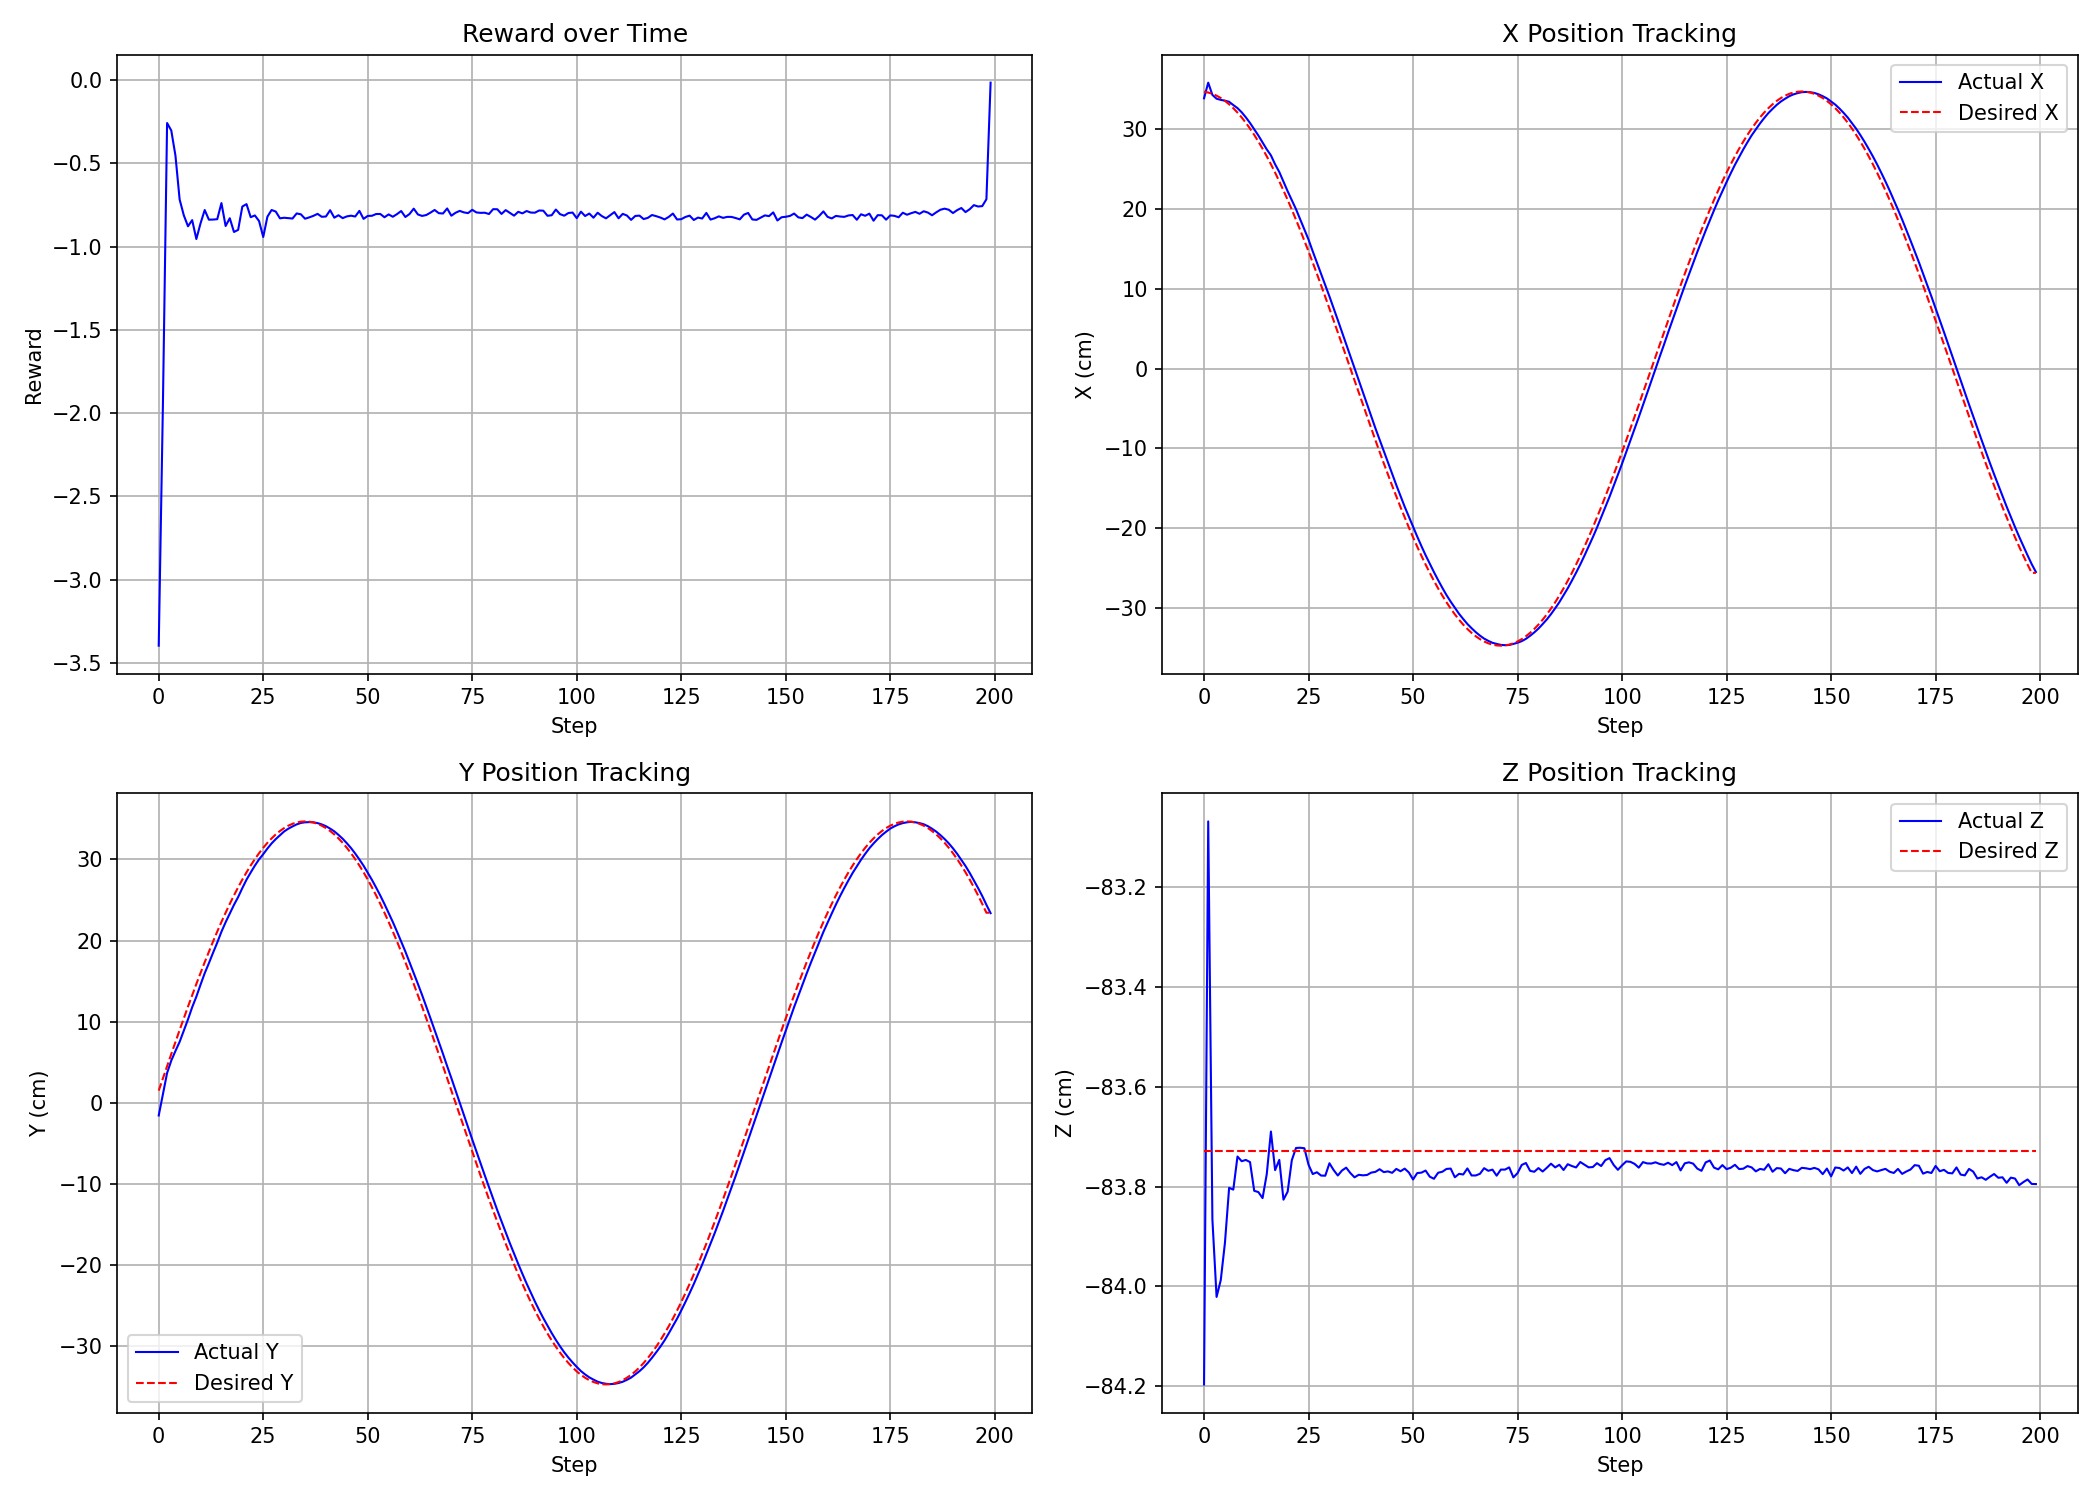
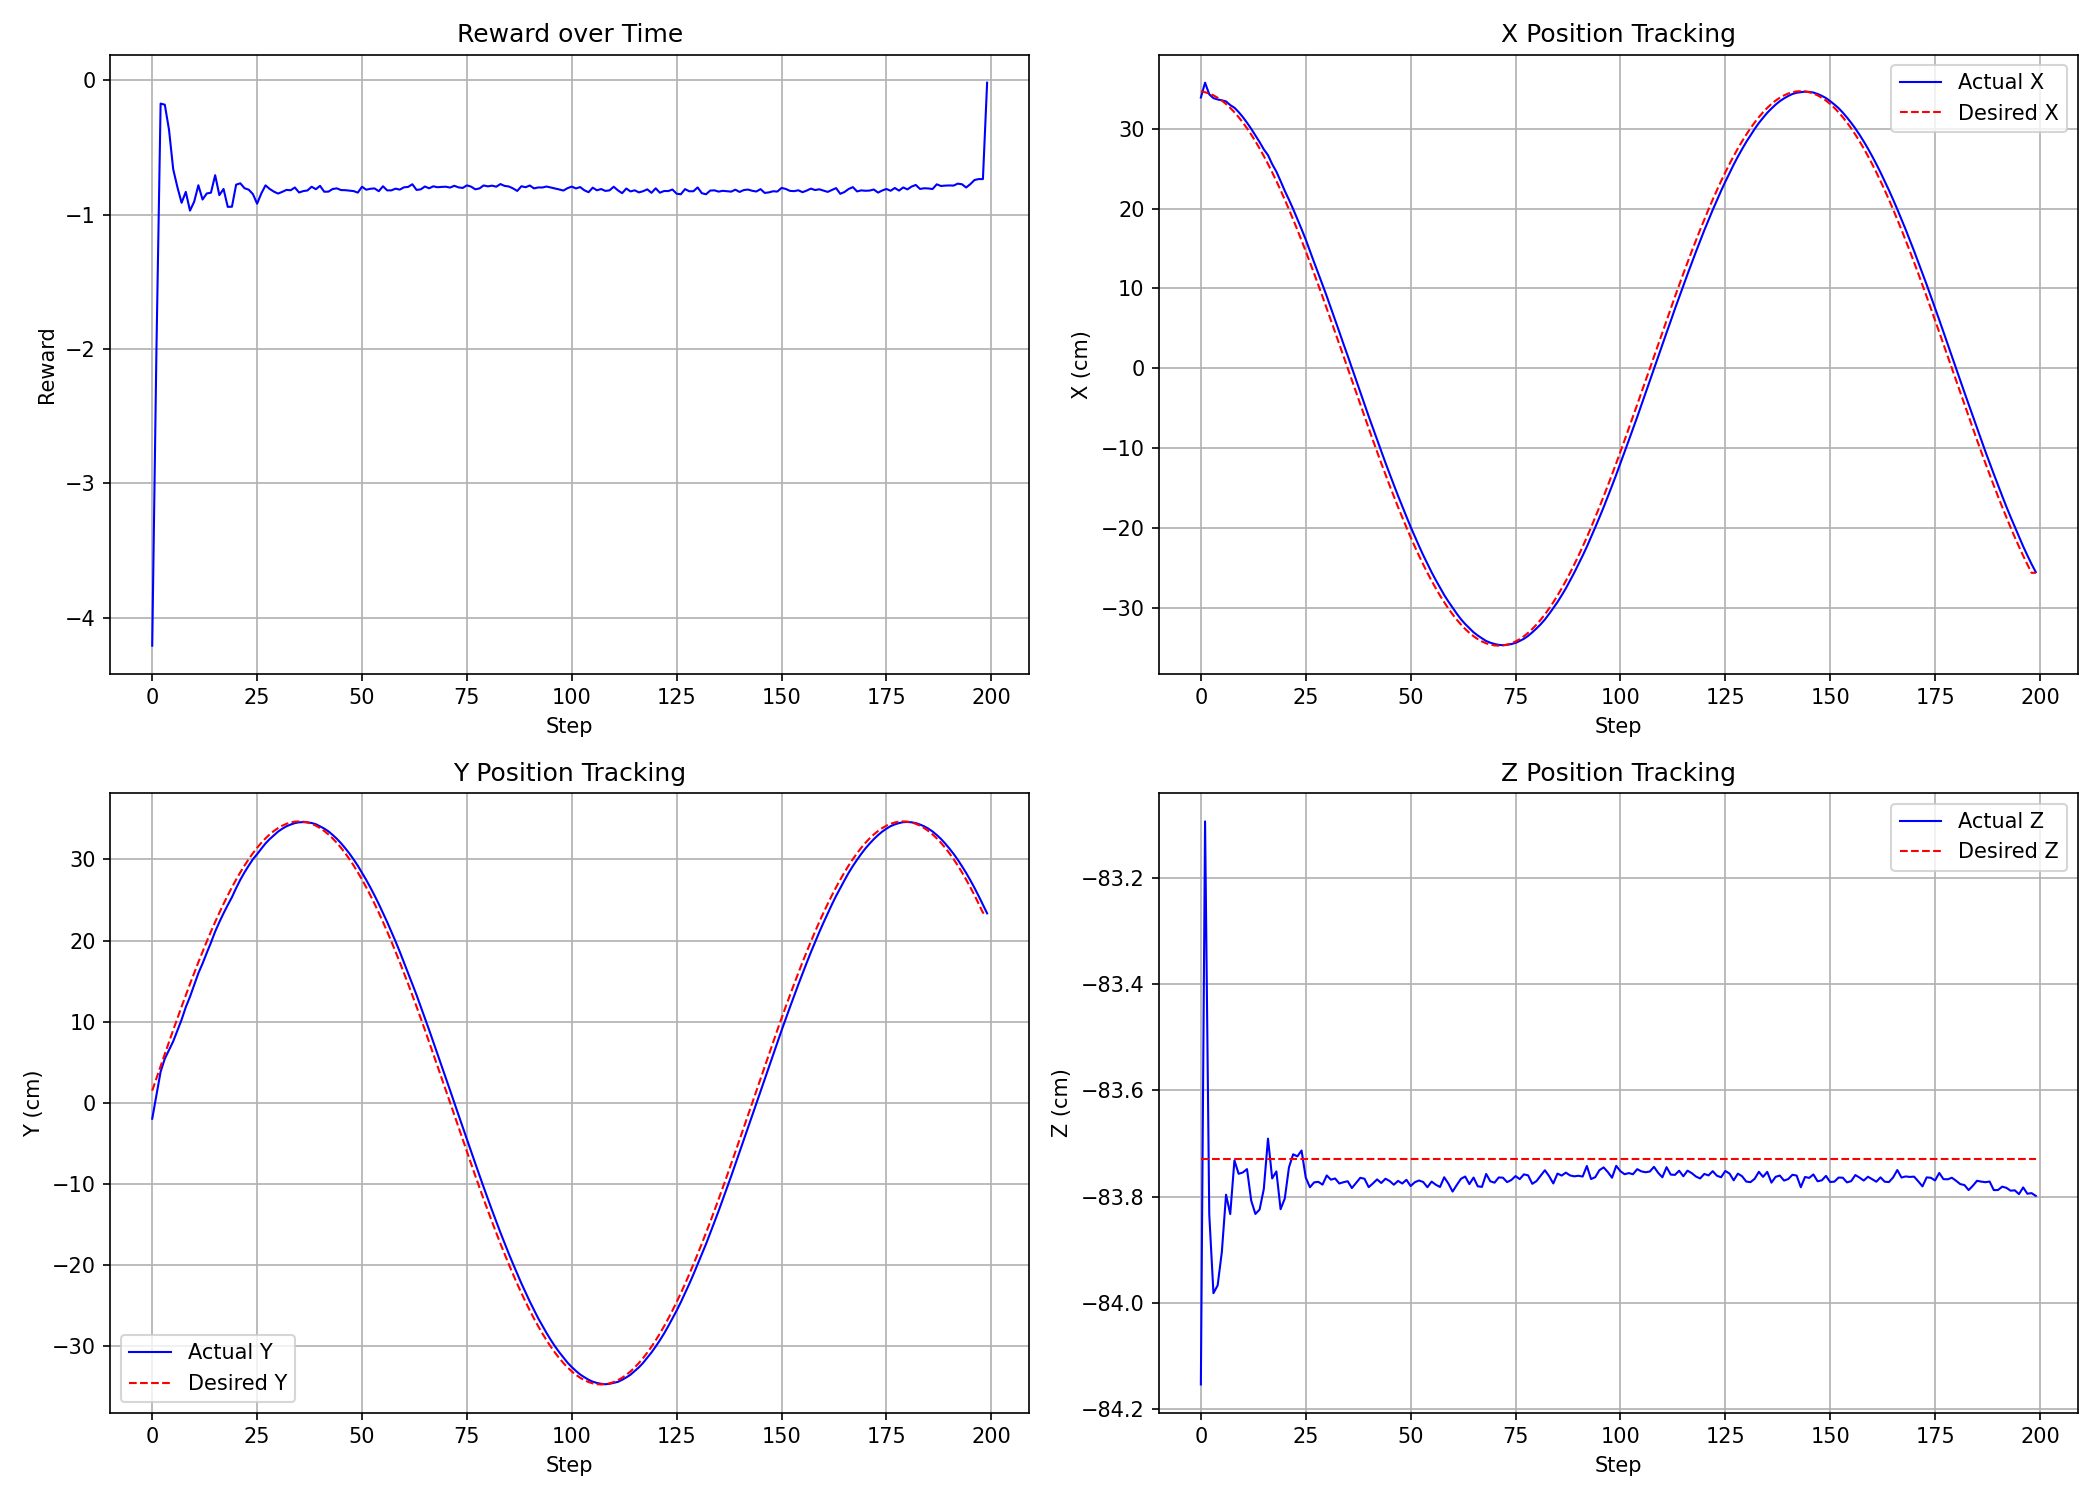
1_20_2026_21_58

diff --git a/train_ppo.py b/train_ppo.py
@@ -1,0 +1,84 @@
+import random
+import gymnasium as gym
+import numpy as np
+from tqdm import tqdm
+import torch
+import matplotlib.pyplot as plt
+import Lib.rl_utils as rl_utils
+from Lib.SoftArm_lib import SoftArmSection
+from SoftArm_env import SoftArmEnv
+import os
+from Lib.utils import generate_circular_trajectory
+import time
+from Agent.PPO import PPO
+
+save_dir = "./saved_models"
+os.makedirs(save_dir, exist_ok=True)
+
+def load_data():
+    data = np.load("./Data/hankel_matrices.npz", allow_pickle=True)
+    Up = data["Up"]
+    Uf = data["Uf"]
+    Yp = data["Yp"]
+    Yf = data["Yf"]
+    Tini = int(data["Tini"].item())
+    N = int(data["N"].item())
+    p_ctr = int(data["p"].item())
+    m_ctr = int(data["m"].item())
+    Q = 800.0 * np.eye(p_ctr)
+    R = 1e-5 * np.eye(m_ctr)
+    lambda_g = 300
+    lambda_y = 1500
+    u_limit = np.array([[-1200, 1200],
+                        [-1200, 1200],
+                        [-1200, 1200]], dtype=float)
+    y_limit = np.array([[-100, 100],
+                        [-100, 100],
+                        [-100, 0]], dtype=float)
+    param_deepc = [Up, Yp, Uf, Yf, Tini, N, Q, R, lambda_g, lambda_y, u_limit, y_limit]
+    return param_deepc
+
+if __name__ == "__main__":
+    seed_number = 10
+    random.seed(seed_number)
+    np.random.seed(seed_number)
+    torch.manual_seed(seed_number)
+
+    param_deepc = load_data()
+    Tini = param_deepc[4]
+    N = param_deepc[5]
+    
+    arm_section = SoftArmSection(
+        n=3,
+        L=9.30,
+        d=1.25,
+        Kb=20.02,
+        Kc=3.10
+    )
+
+    total_steps = 200
+    circular_trajectory = generate_circular_trajectory(
+        num_points=144, 
+        theta=np.pi/4, 
+        L_arm=93.0, 
+        total_steps=total_steps, 
+        N=N
+    )
+
+    y_desired = circular_trajectory.T
+
+    env = SoftArmEnv(param_deepc, arm_section, y_desired, rho=0.01)
+    state, _ = env.reset(seed=seed_number)
+
+    actor_lr = 1e-3
+    critic_lr = 1e-2
+    hidden_dim = 128
+    gamma = 0.98
+    lmbda = 0.95
+    epochs = 10 
+    eps = 0.2
+    device = torch.device("mps") if torch.backends.mps.is_available() else torch.device("cpu")
+
+    state_dim = env.observation_space.shape[0]
+    action_dim = env.action_space.n
+    agent = PPO(state_dim, hidden_dim, action_dim, actor_lr, critic_lr, lmbda, epochs, eps, gamma, device)

diff --git a/SoftArm_env.py b/SoftArm_env.py
@@ -38,7 +38,7 @@ class SoftArmEnv:
         self.uini = np.zeros((m_ctr, self.Tini))
         self.uini_copy = self.uini.copy()
         self.yini = np.zeros((p_ctr, self.Tini))
-        self.yini[2, :] = -90.0
+        self.yini[2, :] = -arm_section.L * 10.0
         self.yini_copy = self.yini.copy()
         
         y_des_arr = np.array(y_desired)
@@ -54,24 +54,19 @@ class SoftArmEnv:
 
         self.m = self.Up.shape[0] // self.Tini
         self.p = self.Yp.shape[0] // self.Tini
-        self.y = np.array([[0], [0], [-90]])
+        self.y = np.array([[0], [0], [-93.0]])
         self.rho = rho
         self.arm_section = arm_section
 
-        # 步进电机参数：用于将步数 u 转换为绳索长度 l
-        self.pulley_diameter = 10  # 滑轮直径，单位：mm
-        self.steps_per_rev = 3200  # 每转步数
-        self.circumference = self.pulley_diameter * np.pi  # 滑轮周长，单位：mm
-        self.mm_per_step = self.circumference / self.steps_per_rev  # 每步移动距离，单位：mm
+        self.pulley_diameter = 10
+        self.steps_per_rev = 3200
+        self.circumference = self.pulley_diameter * np.pi
+        self.mm_per_step = self.circumference / self.steps_per_rev
 
         self.observation_space = gym.spaces.Box(low=-np.inf, high=np.inf, shape=(self.p,))
         self.action_space = gym.spaces.Discrete(2)
         
         self._rng = np.random.default_rng(seed=None)
-        
-        # 用于存储上一次的正向运动学结果，当求解失败时使用
-        self.kappa_b_last = 0.0  # 默认曲率为0（直臂状态）
-        self.gamma_g_rad_last = 0.0  # 默认旋转角为0
         
     def connect(self):
         pass
@@ -89,15 +84,14 @@ class SoftArmEnv:
         self.useq = np.zeros((self.m, self.N))
         self.yseq = np.zeros((self.p, self.N))
         self.t = 0
-        self.y = np.array([[0], [0], [-90]])
-        # 重置正向运动学的上一次值
-        self.kappa_b_last = 0.0
-        self.gamma_g_rad_last = 0.0
+        self.y = np.array([[0], [0], [-93.0]])
         initial_target = self.y_desired[:, 0]
         return self.getFeat(initial_target), {}
     
     def getFeat(self, current_target):
-        return (current_target.flatten() - self.y.flatten())
+        error = current_target.flatten() - self.y.flatten()
+        error_norm = np.linalg.norm(error)
+        return np.append(error, error_norm)
 
     def step(self, action):
         if action > 0:
@@ -115,44 +109,23 @@ class SoftArmEnv:
         else:
             self.k += 1
 
-
-        # 步进电机只能取整数步数，对控制输入进行取整
         u_applied = np.round(self.useq[:, self.k]).astype(int)
         
-        # 将步进电机步数 u 转换为绳索长度 l_known_vec
-        # 公式：l = L - (u * mm_per_step / 10.0)，其中 /10.0 是将 mm 转换为 cm
         l_known_vec = self.arm_section.L - (u_applied * self.mm_per_step / 10.0)
         
-        # 限制绳索长度在物理可行的范围内
-        # 最小长度：约为自然长度的 70%（防止过度收缩）
-        # 最大长度：约为自然长度的 115%（防止过度伸长）
-        l_min = 0.70 * self.arm_section.L  # 约 6.51 cm
-        l_max = 1.15 * self.arm_section.L  # 约 10.70 cm
+        l_min = 0.70 * self.arm_section.L
+        l_max = 1.15 * self.arm_section.L
         l_known_vec = np.clip(l_known_vec, l_min, l_max)
         
-        # 使用绳索长度计算正向运动学，得到弯曲曲率和旋转角
         kappa_b, gamma_g_rad = self.arm_section.solve_forward_kinematics(l_known_vec)
         
-        # 如果正向运动学求解失败，使用上一次的值或默认值
-        if kappa_b is None or gamma_g_rad is None:
-            print(f"警告: 正向运动学求解失败 (步数 {self.t}), l = {l_known_vec}")
-            kappa_b = self.kappa_b_last
-            gamma_g_rad = self.gamma_g_rad_last
-        else:
-            # 更新上一次的值
-            self.kappa_b_last = kappa_b
-            self.gamma_g_rad_last = gamma_g_rad
-        
-        # 根据常曲率模型计算末端位置 (x, y, z)
-        # theta = kappa_b * L 是弯曲角度，phi = gamma_g_rad 是旋转角
-        theta = kappa_b * self.arm_section.L  # 弯曲角度
+        # theta = kappa_b * L 
+        theta = kappa_b * self.arm_section.L  
         x, y, z = constant_curvature(theta, gamma_g_rad, 10.0 * self.arm_section.L)
         
-        # 将末端位置组合成输出向量 y_plant
-        y_plant = np.array([[x], [y], [-z]])
-        
-        
-        self.y = y_plant
+        noise = self._rng.normal(0, 0.002, (3, 1))
+        self.y = np.array([[x], [y], [-z]]) + noise
+
         self.t += 1
         
         self.uini = np.column_stack([self.uini[:, 1:], self.useq[:, self.k].reshape(-1, 1)])

diff --git a/test_env.py b/test_env.py
@@ -79,7 +79,6 @@ if __name__ == "__main__":
     eps = 0.2
     device = torch.device("mps") if torch.backends.mps.is_available() else torch.device("cpu")
 
-    env_name = 'SoftArm-v0'
     state_dim = env.observation_space.shape[0]
     action_dim = env.action_space.n
     agent = PPO(state_dim, hidden_dim, action_dim, actor_lr, critic_lr, lmbda, epochs, eps, gamma, device)